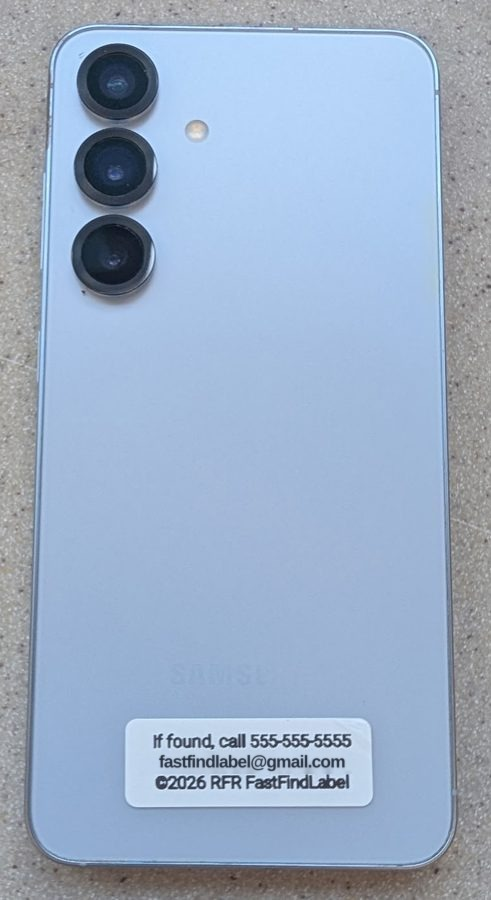
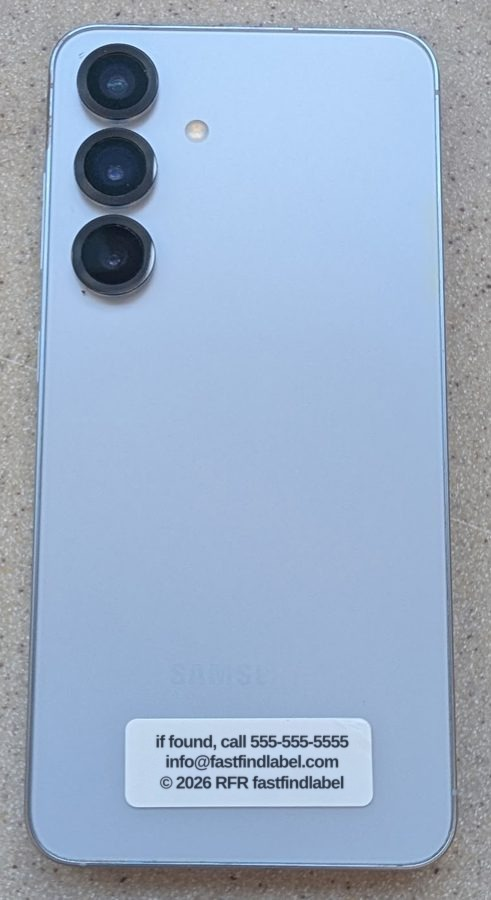
Use info@fastfindlabel.com on site and label photos
Photos now match Bob's Nelko label template exactly.

Claude-Session: https://claude.ai/code/session_012jHVAgknAnsCoHdPhWXrQG

Changed region(s): [[0.3055, 0.8089, 0.7332, 0.9022]]

diff --git a/src/data/content.js b/src/data/content.js
@@ -40,7 +40,7 @@ export const C = {
       { name: "Home", x: 275, y: 40, tip: "Your phone is back home." }
     ]
   },
-  email: "fastfindlabel@gmail.com",
+  email: "info@fastfindlabel.com",
   foot: "©2026 RFR FastFindLabel",
   // Paste Bob's live PayPal Client ID here (never the secret). Until then checkout stays closed.
   paypalClientId: "[PayPal client ID]"

diff --git a/HANDOFF.md b/HANDOFF.md
@@ -12,7 +12,7 @@ Paste this whole file into a new chat and attach the project zip. Then ask the n
 - Website fee: **$250, paid in full by Bob** (a discounted first-project price).
 - Domain **fastfindlabel.com** (about $15 a year) and hosting (about $120 a year, my estimate, verify against the real plan): **$135 total, due when Bob is paid around November 25** (his 4th Wednesday). He could not pay earlier; do not pressure him. I will send exact payment details then.
 - The domain must end up in **Bob's name**. I may register it first and transfer it after he reimburses me.
-- Business email (about $8 a month) is **optional and not chosen**. Bob uses Gmail: **fastfindlabel@gmail.com** (confirmed twice). Mail sent from a Gmail address often lands in spam, so use a transactional email service for order emails.
+- Business email **info@fastfindlabel.com** is live (Purelymail, DNS on Cloudflare) and forwards to Bob's Gmail **fastfindlabel@gmail.com**, so he checks one inbox. info@ is now on the labels and the site. For order emails, use a transactional email service sending from the domain.
 - Second site **cellfindnow.com** with cellfindnow@gmail.com, same design and same PayPal: offered at **$250, to be built later** (December or next year), after the first site sells. Not started.
 - Prices before shipping: **2 labels $10, 4 labels $18, 6 labels $25**. The 4 and 6 prices are MY proposals and still need Bob's confirmation. Shipping is a **flat $3 per order**, any size. Delivery text: "Please allow 5 to 7 days for delivery."
 - One PayPal **Business** account is enough for both sites. Bob will set it up once the site is live (PayPal wants a website). I need only his **Client ID** (never his password).
@@ -25,22 +25,22 @@ Bob asked for the simplest possible site. It is ONE page, in this order:
 4. Under "Get My Labels", in smaller letters: "(Shipping To USA only.)" and "Please allow 5 to 7 days for delivery."
 5. Quantity choices as a radio list: "2 labels $10 + $3 shipping", "4 labels $18 + $3 shipping", "6 labels $25 + $3 shipping". Shipping is otherwise shown only at checkout, as "$10 + $3 shipping = $13".
 6. Checkout: phone number to print (US, 10 digits, formatted as typed; hint says NOT the number of the phone being labeled), name, email, street, Apt/Suite (optional), city, state, ZIP. Apt shows on the same line as the street. Pay with PayPal.
-7. Footer: "Contact:" with fastfindlabel@gmail.com as a **blue underlined mailto link**, and "©2026 RFR FastFindLabel".
+7. Footer: "Contact:" with info@fastfindlabel.com as a **blue underlined mailto link**, and "©2026 RFR FastFindLabel".
 - **The map:** clicking the tagline opens a dialog with a small route map and six stops (coffee, grocery, gym, car, park, home), Back/Next buttons, a moving phone dot and a short tip per stop. It is the only extra Bob wanted back.
 - Removed on purpose: intro animation, drag-the-label toy, guide, FAQ, extra pages, feature boxes, statistics, reviews, trust strip, sticky buy bar. Never mention lanyards, key tags or keys.
 - Bob was happy: "This site is sooo easy to understand and generate sales."
 
 ## 4. Label spec (the physical product)
-Horizontal sticker, three centered lines, straight:
+Horizontal sticker, 14 x 40 mm, three centered lines, straight (exactly as in Bob's Nelko template):
 ```
-If found, call (555) 555-5555
-fastfindlabel@gmail.com
-©2026 RFR FastFindLabel
+if found, call 555-555-5555
+info@fastfindlabel.com
+© 2026 RFR fastfindlabel
 ```
-Only the number changes per customer. Customer emails are never printed. Bob's current photos still show the OLD email (cellfindnow@gmail.com); **new photos arrive in about a week** (he ran out of label tape). When they arrive: crop out anything personal, strip metadata, and replace `public/images/phone-back.jpg` and `phone-case.jpg`. (The old case photo showed a business card with part of an address; it is already cropped out.)
+Only the number changes per customer. Customer emails are never printed. The site photos were edited so the label text matches the template above (sample number 555-555-5555, no metadata). If Bob sends new real photos later: crop out anything personal, strip metadata, and replace `public/images/phone-back.jpg` and `phone-case.jpg`. (The old case photo showed a business card with part of an address; it is already cropped out.)
 
 ## 5. Technical state
-- **Stack:** Astro 5 static site in a GitHub repo, deployed on Vercel. Earlier preview: https://fastfindlabels.vercel.app/ . No database yet.
+- **Stack:** Astro 5 static site in GitHub (OnojaTheBuilder/fastfindlabel), deployed on **Cloudflare Pages (free plan)** at https://fastfindlabel.com (domain registered at Hostinger, nameservers on Cloudflare). Vercel is no longer used. No database yet.
 - **Files:** `src/pages/index.astro` (the whole page), `src/layouts/Base.astro` (head, footer, script), `src/data/content.js` (ALL text, prices, shipping, map stops, email, PayPal client ID placeholder), `src/scripts/client.js` (price total, phone formatting, demo or PayPal checkout, map dialog), `src/styles/global.css` (light paper-green background, mint, sky, yellow, navy text; Fraunces headings, Figtree body; focus styles; reduced-motion respected), `public/images/` (two photos), `README.md`.
 - **What was tested:** I could not install Astro in my earlier chat (no network). I generated a static copy of the same page and ran it in a headless browser at desktop and phone sizes: totals update, number formatting, demo order, map opens, steps to stop 6 and closes, no console errors, no sideways scroll. **The Astro files themselves have not been built by me.**
 - **Known problem:** the latest Vercel deployment **failed** and I have not seen the build log. A possible cause is leftover old files in the GitHub repo (the old `guide.astro`, `faq.astro`, `contact.astro`, `order.astro` and `src/components/Label.astro` should be deleted; `src/pages/` should hold only `index.astro`). First action: get the build log (Vercel, Deployments, the failed one, Build Logs, or `npx vercel inspect <id> --logs`), fix the real error, and confirm a green deploy.
